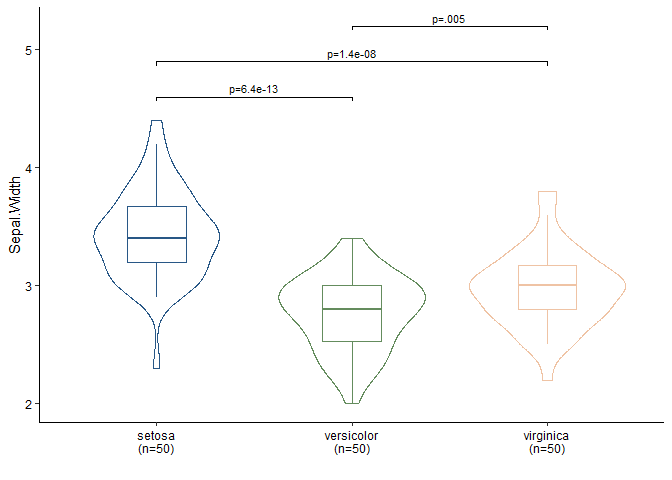
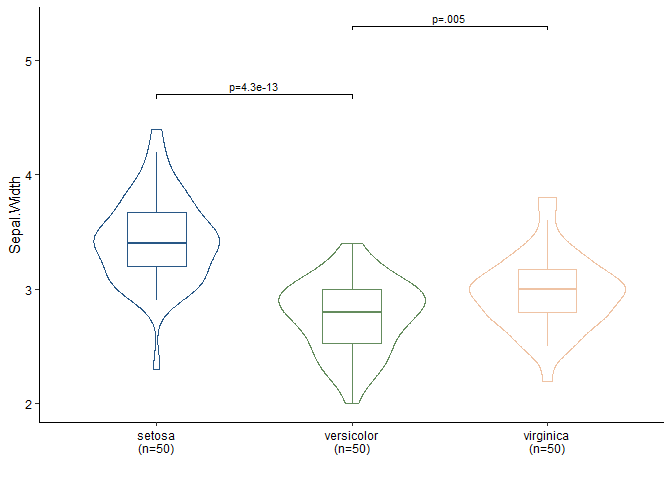
Update BetweenStatPlot and ggVolcano

diff --git a/README.md b/README.md
@@ -54,7 +54,8 @@ head(iris)
 #> 4          4.6         3.1          1.5         0.2  setosa
 #> 5          5.0         3.6          1.4         0.2  setosa
 #> 6          5.4         3.9          1.7         0.4  setosa
-BetweenStatPlot(iris, x = 'Species', y = 'Sepal.Width', color = 'Species')
+BetweenStatPlot(iris, x = 'Species', y = 'Sepal.Width', color = 'Species',
+                comparisons = list(c('setosa','versicolor'), c('versicolor','virginica')))
 ```
 
 <img src="man/figures/README-unnamed-chunk-4-1.png" width="100%" />
@@ -143,3 +144,95 @@ gene2goterm(c("ENSMUSG00000025981", "ENSMUSG00000057363"), organism = 'mmusculus
 #> 17 ARRAYEXPRESS,ENSG
 #> 18 ARRAYEXPRESS,ENSG
 ```
+
+### ggVolcano
+
+``` r
+library(DESeq2)
+#> Loading required package: S4Vectors
+#> Loading required package: stats4
+#> Loading required package: BiocGenerics
+#> Warning: package 'BiocGenerics' was built under R version 4.0.5
+#> Loading required package: parallel
+#> 
+#> Attaching package: 'BiocGenerics'
+#> The following objects are masked from 'package:parallel':
+#> 
+#>     clusterApply, clusterApplyLB, clusterCall, clusterEvalQ,
+#>     clusterExport, clusterMap, parApply, parCapply, parLapply,
+#>     parLapplyLB, parRapply, parSapply, parSapplyLB
+#> The following objects are masked from 'package:stats':
+#> 
+#>     IQR, mad, sd, var, xtabs
+#> The following objects are masked from 'package:base':
+#> 
+#>     anyDuplicated, append, as.data.frame, basename, cbind, colnames,
+#>     dirname, do.call, duplicated, eval, evalq, Filter, Find, get, grep,
+#>     grepl, intersect, is.unsorted, lapply, Map, mapply, match, mget,
+#>     order, paste, pmax, pmax.int, pmin, pmin.int, Position, rank,
+#>     rbind, Reduce, rownames, sapply, setdiff, sort, table, tapply,
+#>     union, unique, unsplit, which.max, which.min
+#> 
+#> Attaching package: 'S4Vectors'
+#> The following object is masked from 'package:base':
+#> 
+#>     expand.grid
+#> Loading required package: IRanges
+#> 
+#> Attaching package: 'IRanges'
+#> The following object is masked from 'package:grDevices':
+#> 
+#>     windows
+#> Loading required package: GenomicRanges
+#> Loading required package: GenomeInfoDb
+#> Loading required package: SummarizedExperiment
+#> Loading required package: MatrixGenerics
+#> Loading required package: matrixStats
+#> 
+#> Attaching package: 'MatrixGenerics'
+#> The following objects are masked from 'package:matrixStats':
+#> 
+#>     colAlls, colAnyNAs, colAnys, colAvgsPerRowSet, colCollapse,
+#>     colCounts, colCummaxs, colCummins, colCumprods, colCumsums,
+#>     colDiffs, colIQRDiffs, colIQRs, colLogSumExps, colMadDiffs,
+#>     colMads, colMaxs, colMeans2, colMedians, colMins, colOrderStats,
+#>     colProds, colQuantiles, colRanges, colRanks, colSdDiffs, colSds,
+#>     colSums2, colTabulates, colVarDiffs, colVars, colWeightedMads,
+#>     colWeightedMeans, colWeightedMedians, colWeightedSds,
+#>     colWeightedVars, rowAlls, rowAnyNAs, rowAnys, rowAvgsPerColSet,
+#>     rowCollapse, rowCounts, rowCummaxs, rowCummins, rowCumprods,
+#>     rowCumsums, rowDiffs, rowIQRDiffs, rowIQRs, rowLogSumExps,
+#>     rowMadDiffs, rowMads, rowMaxs, rowMeans2, rowMedians, rowMins,
+#>     rowOrderStats, rowProds, rowQuantiles, rowRanges, rowRanks,
+#>     rowSdDiffs, rowSds, rowSums2, rowTabulates, rowVarDiffs, rowVars,
+#>     rowWeightedMads, rowWeightedMeans, rowWeightedMedians,
+#>     rowWeightedSds, rowWeightedVars
+#> Loading required package: Biobase
+#> Welcome to Bioconductor
+#> 
+#>     Vignettes contain introductory material; view with
+#>     'browseVignettes()'. To cite Bioconductor, see
+#>     'citation("Biobase")', and for packages 'citation("pkgname")'.
+#> 
+#> Attaching package: 'Biobase'
+#> The following object is masked from 'package:MatrixGenerics':
+#> 
+#>     rowMedians
+#> The following objects are masked from 'package:matrixStats':
+#> 
+#>     anyMissing, rowMedians
+dds <- makeExampleDESeqDataSet(n=5000, m=4, betaSD = 5)
+dds <- DESeq(dds)
+#> estimating size factors
+#> estimating dispersions
+#> gene-wise dispersion estimates
+#> mean-dispersion relationship
+#> final dispersion estimates
+#> fitting model and testing
+res <- results(dds, contrast=c("condition","B","A"))
+res.tab <- as.data.frame(res)
+ggVolcano(res.tab)
+#> Warning: Removed 182 rows containing missing values (geom_point).
+```
+
+<img src="man/figures/README-unnamed-chunk-6-1.png" width="100%" />
